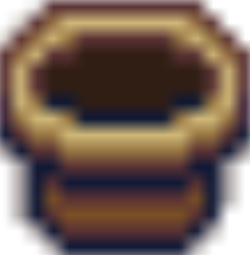
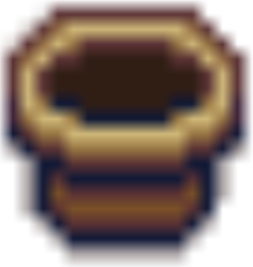
f

diff --git a/src/core/Game.java b/src/core/Game.java
@@ -204,6 +204,9 @@ public class Game extends JPanel implements MouseListener, MouseMotionListener {
 		furniture.add(new Furniture("Stool 3", 1132, 326, 57, 62));
 		//barrel
 		
+		//empty container
+		furniture.add(new Furniture("Bin", 723, 57, 51, 53));
+		furniture.add(new Furniture("Trough", 1036, 316, 95, 50));
 		//books
 		furniture.add(new Furniture("Books Stool", 861, 278, 50, 95));
 //		furniture.add(new Furniture("Books", 134, 41, 144, 139));
@@ -218,15 +221,23 @@ public class Game extends JPanel implements MouseListener, MouseMotionListener {
 		furniture.add(new Furniture("Picture 4", 424, 5, 52, 70));
 		furniture.add(new Furniture("Picture 5", 500, 55, 42, 56));
 		furniture.add(new Furniture("Picture", 529, 8, 63, 42));
-		furniture.add(new Furniture("Picture 2", 605, 49, 50, 69));
+		furniture.add(new Furniture("Picture 2", 605, 49, 60, 69));
 		//near bed stuff
 		furniture.add(new Furniture("Vase 3", 18, 212, 28, 44));
 		furniture.add(new Furniture("Lamp", 50, 195, 45, 63));
 		furniture.add(new Furniture("HorseR", 40, 400, 91, 79));
-		//dresser to pottery
+		//dresser to book
 		furniture.add(new Furniture("Chest", 393, 310, 81, 63));
+		furniture.add(new Furniture("Plates", 728, 42, 40, 40));
 		//near vanity stuff
 		furniture.add(new Furniture("Chest", 909, 142, 65, 50));
+		furniture.add(new Furniture("Blue Thing", 1151, 330, 34, 31));
+		furniture.add(new Furniture("Ink", 1263, 226, 23, 39));
+		furniture.add(new Furniture("Ink", 1272, 243, 23, 39));
+		furniture.add(new Furniture("Vase 2", 1231, 238, 42, 50));
+		furniture.add(new Furniture("Ink", 1265, 262, 23, 39));
+		furniture.add(new Furniture("Ink", 1214, 257, 23, 39));
+		furniture.add(new Furniture("Ink", 1227, 268, 23, 39));
 		//block cushions
 		//cushions
 		furniture.add(new Furniture("CushionOR", 150, 340, 47, 40));
